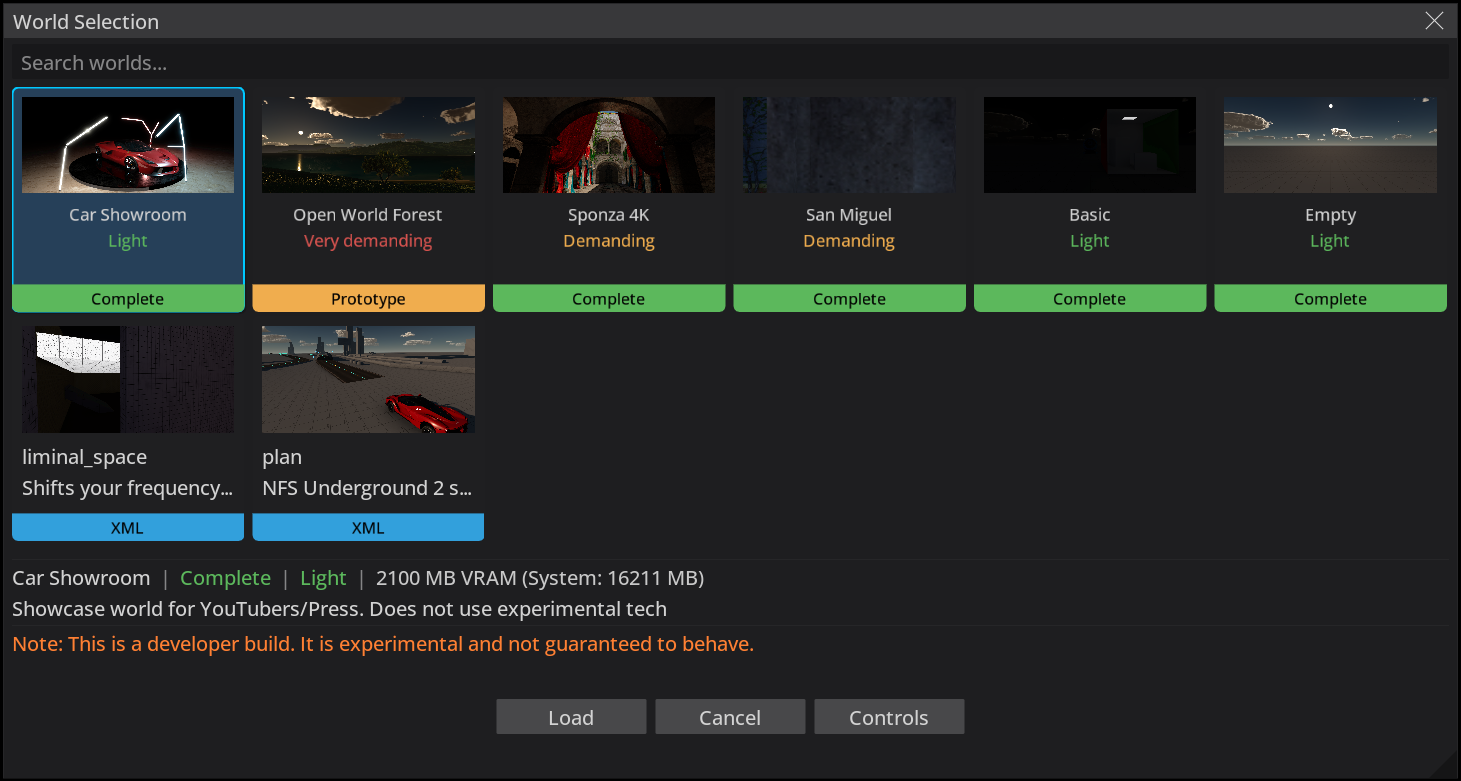
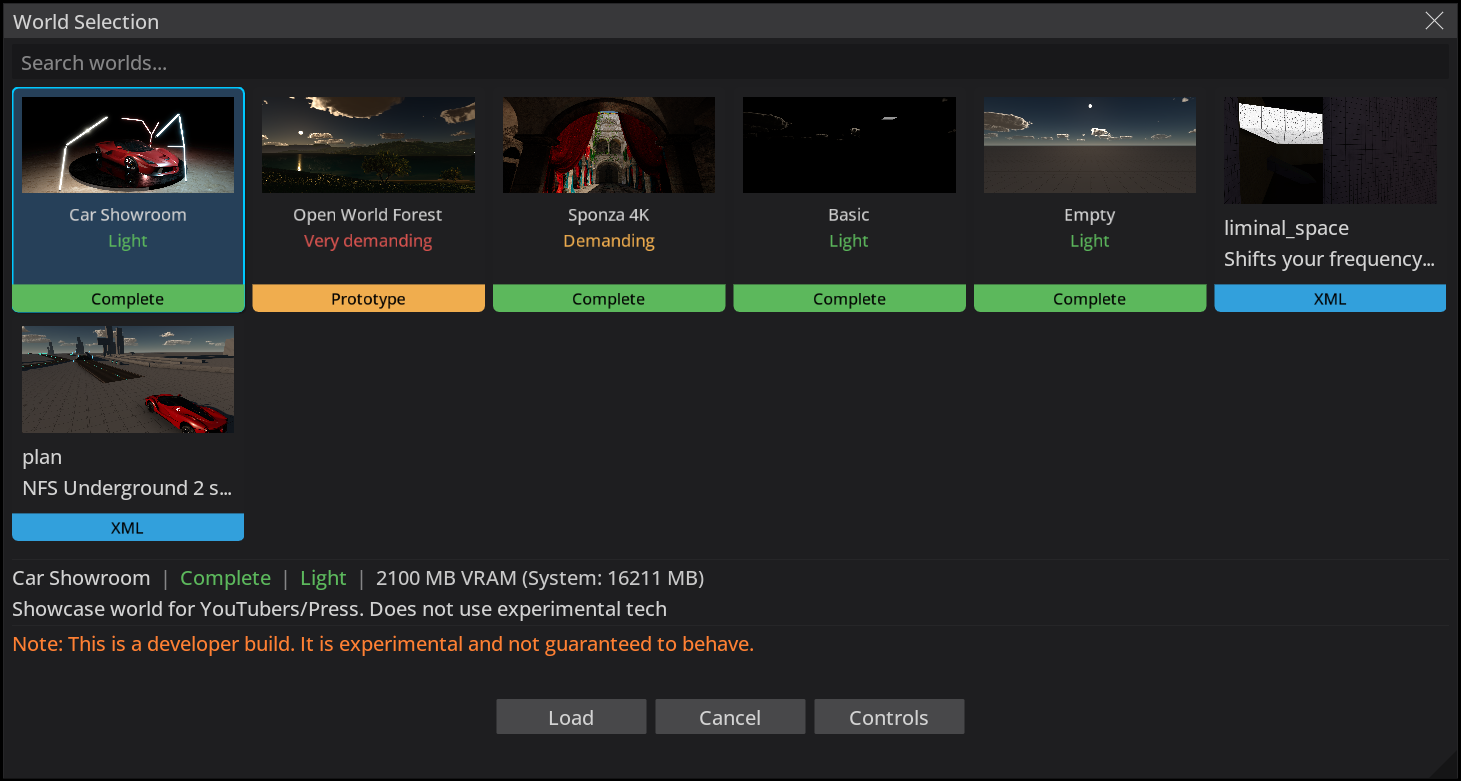
[worlds] removed san miguel default, it takes a lot of space, it's non pbr, and in general old and useless

Changed region(s): [[0.4928, 0.1229, 1.0, 0.3995], [0.0, 0.3995, 0.3388, 0.7068]]

diff --git a/source/runtime/Game/Game.cpp b/source/runtime/Game/Game.cpp
@@ -52,7 +52,6 @@ namespace spartan
         namespace showroom      { void create(); void tick(); }
         namespace forest        { void create(); void tick(); }
         namespace sponza        { void create(); }
-        namespace san_miguel    { void create(); }
         namespace basic         { void create(); }
         namespace empty         { void create(); }
     }
@@ -89,7 +88,6 @@ namespace spartan
             worlds::showroom::create,
             worlds::forest::create,
             worlds::sponza::create,
-            worlds::san_miguel::create,
             worlds::basic::create,
             worlds::empty::create,
         };
@@ -98,7 +96,6 @@ namespace spartan
         {
             worlds::showroom::tick,
             worlds::forest::tick,
-            nullptr,
             nullptr,
             nullptr,
             nullptr,
@@ -454,29 +451,6 @@ namespace spartan
                             material->SetProperty(MaterialProperty::SubsurfaceScattering, 1.0f);
                         }
                     }
-                }
-            }
-        }
-        //====================================================================================
-
-        //= SAN MIGUEL =======================================================================
-        namespace san_miguel
-        {
-            void create()
-            {
-                entities::camera(false, Vector3(10.0f, 2.0f, 0.0f), Vector3(0.0f, -90.0f, 0.0f));
-                entities::sun(LightPreset::dusk, true);
-                entities::floor();
-
-                // combine sub-meshes that share materials to reduce draw call and material count
-                uint32_t mesh_flags  = Mesh::GetDefaultFlags();
-                mesh_flags          |= static_cast<uint32_t>(MeshFlags::ImportCombineMeshes);
-                if (shared_ptr<Mesh> mesh = ResourceCache::Load<Mesh>("project/models/San_Miguel/san-miguel-low-poly.obj", mesh_flags))
-                {
-                    Entity* entity = mesh->GetRootEntity();
-                    entity->SetObjectName("san_miguel");
-                    entity->SetPosition(Vector3(0.0f, 0.3f, 0.0f));
-                    entity->SetScale(1.0f);
                 }
             }
         }

diff --git a/source/editor/Windows/WorldSelector.cpp b/source/editor/Windows/WorldSelector.cpp
@@ -55,7 +55,6 @@ namespace
         { "Car Showroom",      "Showcase world for YouTubers/Press. Does not use experimental tech", "Complete" , "Light",          2100 },
         { "Open World Forest", "256 million of Ghost of Tsushima grass blades",                      "Prototype", "Very demanding", 5600 },
         { "Sponza 4K",         "High-resolution textures & meshes",                                  "Complete" , "Demanding",      2600 },
-        { "San Miguel",        "Detailed courtyard scene with complex geometry and lighting",        "Complete" , "Demanding",      2600 },
         { "Basic",             "Cornell box, material ball, light, camera, floor",                   "Complete" , "Light",          2100 },
         { "Empty",             "Light, camera, floor",                                               "Complete" , "Light",          2100 }
     };
@@ -63,7 +62,7 @@ namespace
 
     // discovered world files from disk
     vector<spartan::WorldMetadata> world_files;
-    int selected_index            = 0;
+    int selected_index             = 0;
     bool is_default_world_selected = true;
 
     // visibility states
@@ -98,10 +97,10 @@ namespace
     bool last_click_was_default = true;
 
     // asset download configuration
-    const char* assets_url          = "https://www.dropbox.com/scl/fi/wfd51c52p11embbhwlfyz/project.7z?rlkey=3xjx10p8yx1jqzvzukc4bk13r&st=dnrjdmwl&dl=1";
+    const char* assets_url          = "https://www.dropbox.com/scl/fi/h6eo3g0p7gsvcpn5ep4c3/project.7z?rlkey=wmo3webi76xdz0tjp22otgceh&st=iuep3y7b&dl=1";
     const char* assets_destination  = "project/project.7z";
     const char* assets_extract_dir  = "project/";
[2 lines of base64/hex data omitted]
 
     void scan_directory_recursive(const string& directory)
     {

diff --git a/source/editor/WorldPreviews.cpp b/source/editor/WorldPreviews.cpp
@@ -134,13 +134,12 @@ namespace
     {
         switch (default_world)
         {
-            case spartan::DefaultWorld::Showroom:  return "showroom";
-            case spartan::DefaultWorld::Forest:    return "forest";
-            case spartan::DefaultWorld::Sponza:    return "sponza";
-            case spartan::DefaultWorld::SanMiguel: return "san_miguel";
-            case spartan::DefaultWorld::Basic:     return "basic";
-            case spartan::DefaultWorld::Empty:     return "empty";
-            case spartan::DefaultWorld::Max:       return "unknown";
+            case spartan::DefaultWorld::Showroom: return "showroom";
+            case spartan::DefaultWorld::Forest:   return "forest";
+            case spartan::DefaultWorld::Sponza:   return "sponza";
+            case spartan::DefaultWorld::Test:     return "test";
+            case spartan::DefaultWorld::Empty:    return "empty";
+            case spartan::DefaultWorld::Max:      return "unknown";
         }
 
         return "unknown";

diff --git a/source/runtime/Game/Game.h b/source/runtime/Game/Game.h
@@ -28,8 +28,7 @@ namespace spartan
         Showroom,
         Forest,
         Sponza,
-        SanMiguel,
-        Basic,
+        Test,
         Empty,
         Max
     };
